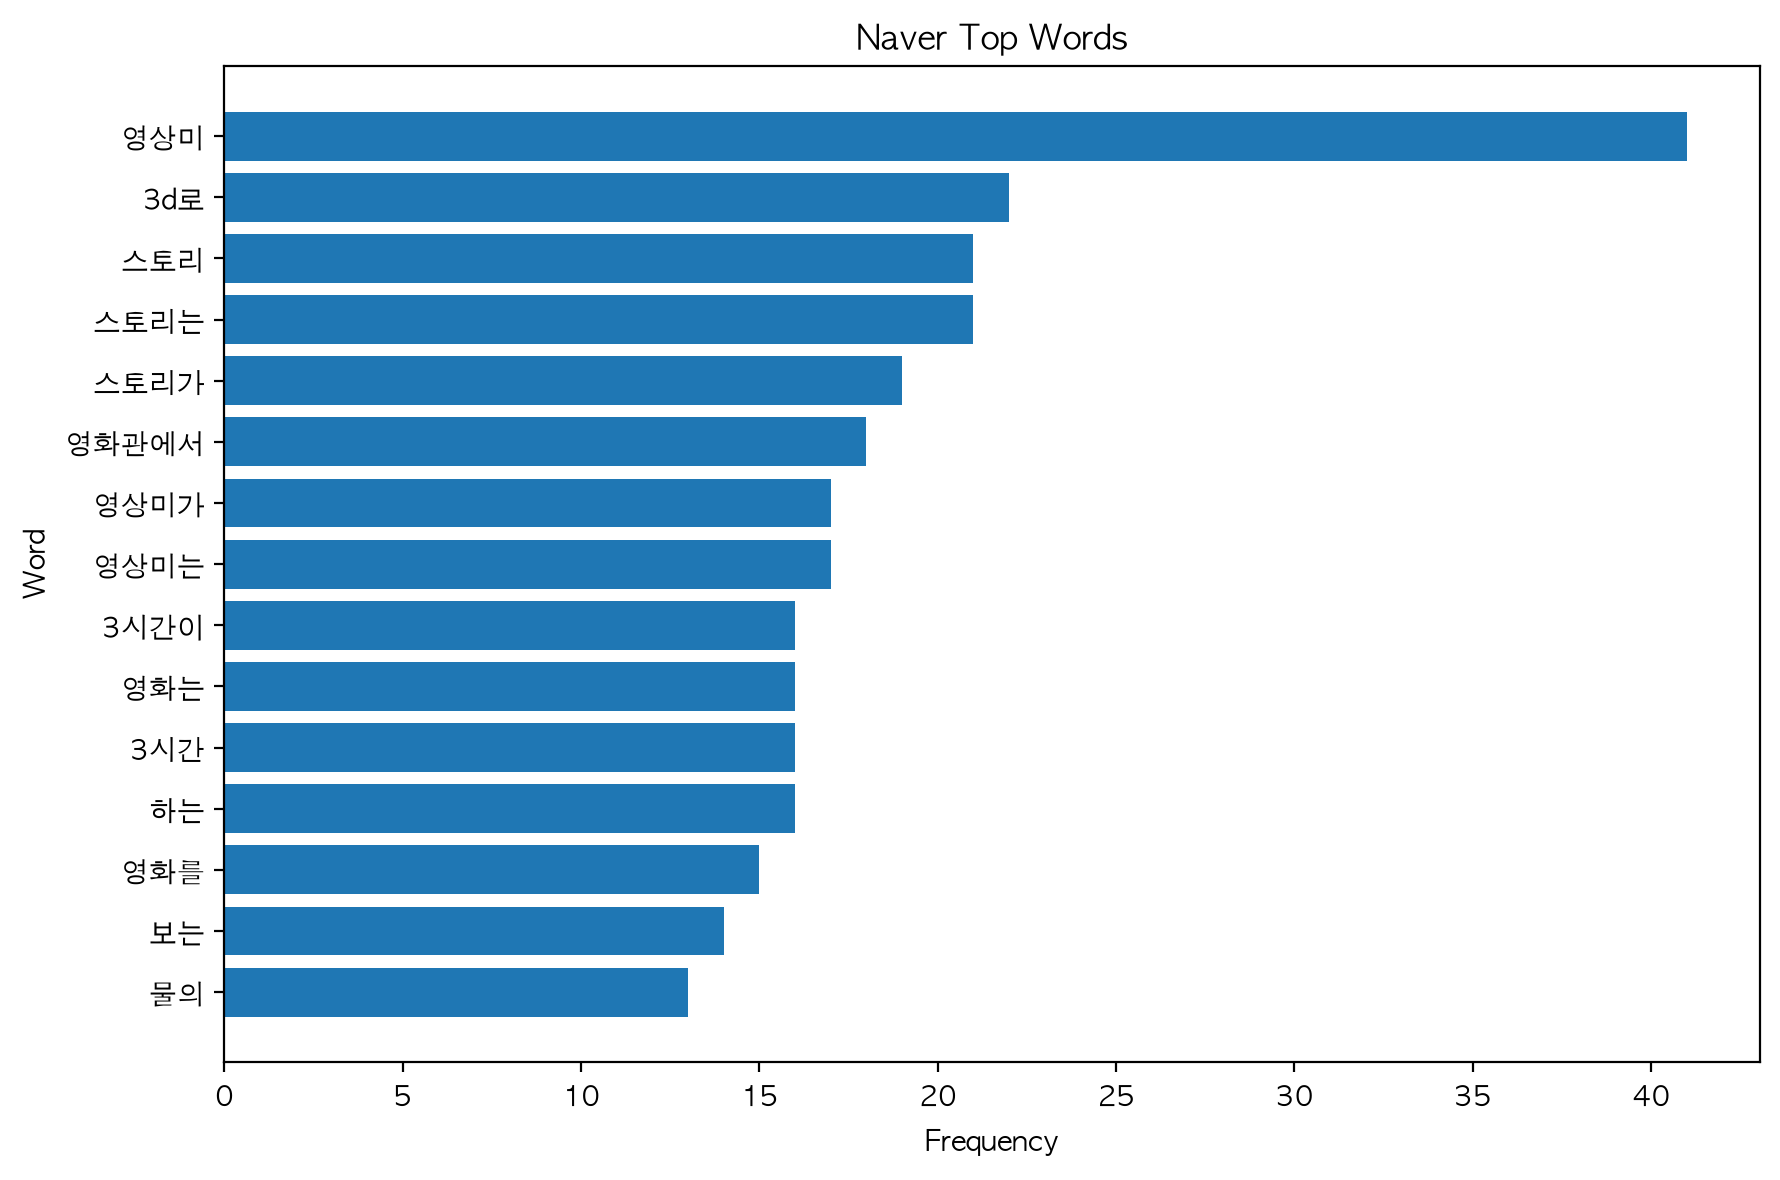
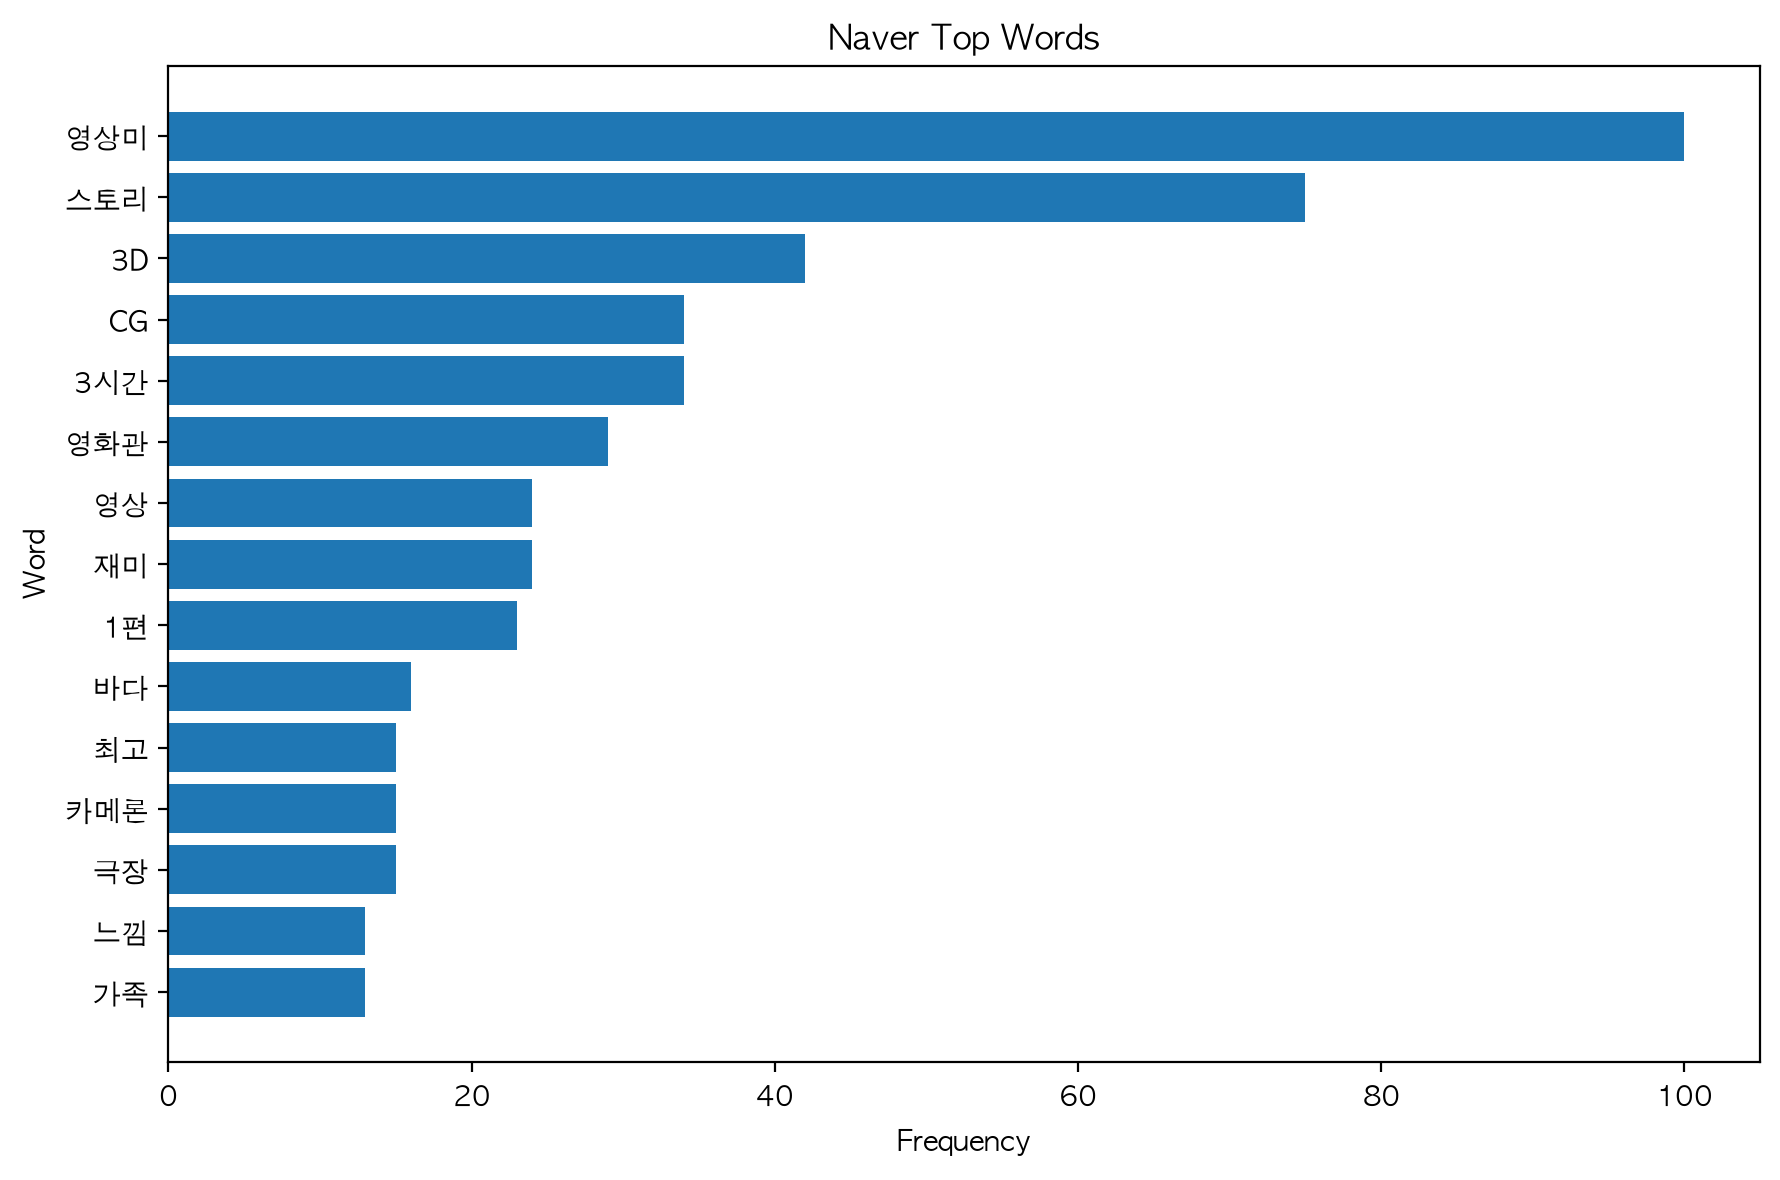
refine Naver Keyword png

diff --git a/3-(1)-crawling/review_analysis/preprocessing/naver_eda.py b/3-(1)-crawling/review_analysis/preprocessing/naver_eda.py
@@ -24,8 +24,105 @@ STOPWORDS = {
     "보고",
     "봤습니다",
     "영화",
+    "영화는",
+    "영화를",
+    "영화가",
+    "하는",
+    "보는",
+    "하지만",
+    "이런",
+    "다시",
+    "봤는데",
+    "역시",
+    "그리고",
+    "내내",
+    "꼭",
+    "더",
+    "잘",
+    "볼",
+    "좀",
+    "또",
+    "왜",
+    "것",
+    "수",
+    "이",
+    "하지",
+    "시간",
+    "물의",
     "아바타",
 }
+
+
+KEYWORD_NORMALIZATION = {
+    "영상미": "영상미",
+    "영상미가": "영상미",
+    "영상미는": "영상미",
+    "영상미도": "영상미",
+    "스토리": "스토리",
+    "스토리는": "스토리",
+    "스토리가": "스토리",
+    "스토리도": "스토리",
+    "3D": "3D",
+    "3d로": "3D",
+    "3d": "3D",
+    "3시간이": "3시간",
+    "3시간": "3시간",
+    "cg": "CG",
+    "CG": "CG",
+    "극장에서": "극장",
+    "극장": "극장",
+    "영화관에서": "영화관",
+    "영화관": "영화관",
+    "아이맥스로": "아이맥스",
+    "아이맥스": "아이맥스",
+    "재밌게": "재미",
+    "재미있게": "재미",
+    "재밌었다": "재미",
+}
+
+
+PARTICLE_SUFFIXES = (
+    "으로부터",
+    "으로서",
+    "으로써",
+    "에서",
+    "에게",
+    "께서",
+    "부터",
+    "까지",
+    "처럼",
+    "보다",
+    "마다",
+    "으로",
+    "은",
+    "는",
+    "이",
+    "가",
+    "을",
+    "를",
+    "에",
+    "의",
+    "도",
+    "만",
+    "로",
+    "와",
+    "과",
+)
+
+
+def normalize_keyword(raw_token: str) -> str:
+    token = raw_token.strip()
+    token = KEYWORD_NORMALIZATION.get(token, token)
+
+    if token.lower().startswith("3d"):
+        return "3D"
+
+    for suffix in PARTICLE_SUFFIXES:
+        if len(token) > len(suffix) + 1 and token.endswith(suffix):
+            token = token[: -len(suffix)]
+            break
+
+    return KEYWORD_NORMALIZATION.get(token, token)
 
 
 def configure_font():
@@ -156,13 +253,14 @@ def plot_weekday_review_count(data: pd.DataFrame, output_dir: str):
 def plot_top_words(data: pd.DataFrame, output_dir: str):
     counter: Counter[str] = Counter()
     for text in data["cleaned_review"].fillna(""):
-        counter.update(
-            token
-            for token in str(text).split()
-            if len(token) >= 2
-            and not token.isdigit()
-            and token not in STOPWORDS
-        )
+        for raw_token in str(text).split():
+            token = normalize_keyword(raw_token)
+            if (
+                len(token) >= 2
+                and not token.isdigit()
+                and token not in STOPWORDS
+            ):
+                counter[token] += 1
 
     top_words = pd.DataFrame(
         counter.most_common(15),

diff --git a/3-(1)-crawling/README.md b/3-(1)-crawling/README.md
@@ -219,7 +219,7 @@ database/reviews_naver.csv
 
 ### (6) 주요 키워드
 
-정제된 리뷰 텍스트에서 불용어와 숫자를 제외한 뒤 주요 단어 빈도를 확인하였다. 네이버 리뷰는 한국어 리뷰가 중심이므로 Word 기반 토큰을 사용하였다.
+정제된 리뷰 텍스트에서 불용어와 숫자를 제외한 뒤 주요 키워드를 단어 단위로 나타냈다.
 
 <p align="center">
 <img src="review_analysis/plots/naver_top_words.png" width="600">